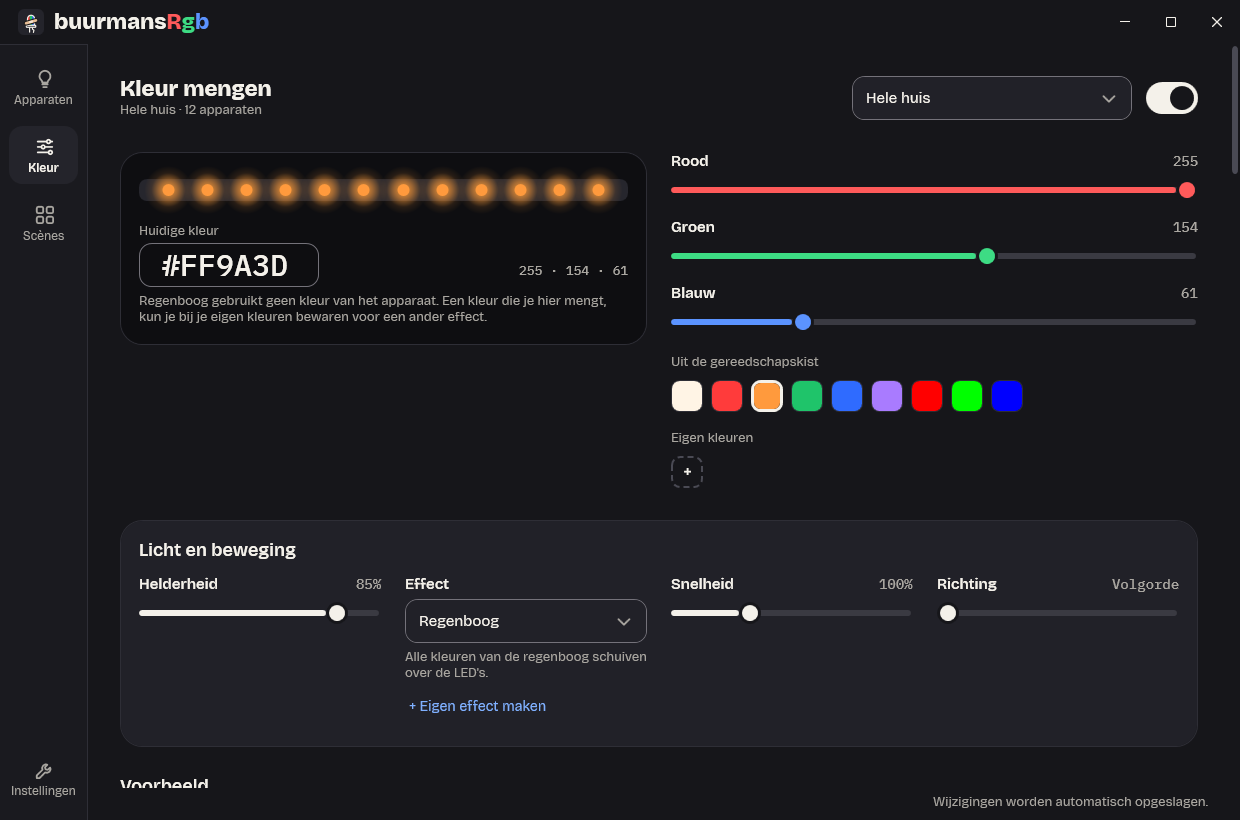
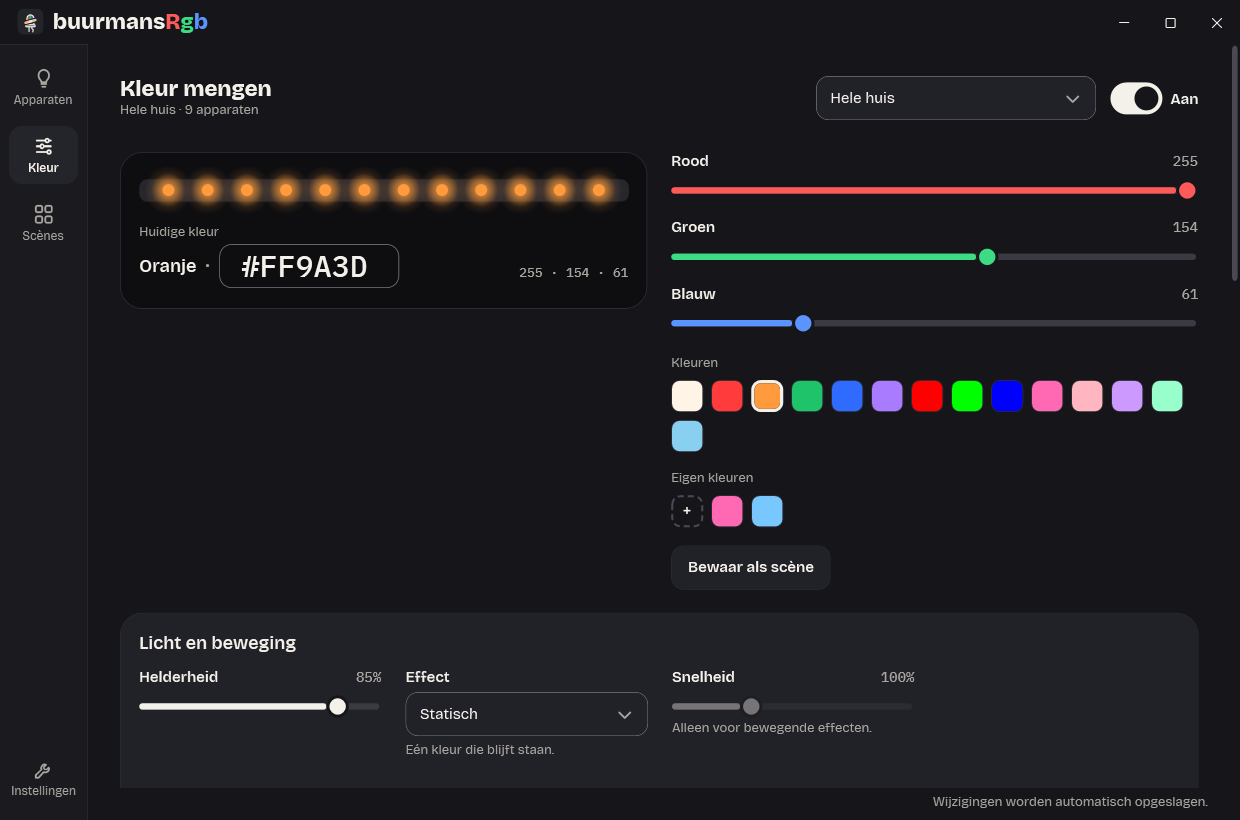
docs: renew the Kleur screenshot, add empty Scènes

diff --git a/docs/handleiding.md b/docs/handleiding.md
@@ -268,7 +268,7 @@ beweging, staat verderop bij [Toegankelijkheid](#toegankelijkheid).
 
 ### Kleur
 
-![De pagina Kleur: kleur mengen voor het hele huis](images/kleur.png)
+![De pagina Kleur: kleur mengen voor het hele huis, met "Bewaar als scène" onder de eigen kleuren](images/kleur.png)
 
 Bovenaan kies je een apparaat of "Hele huis" (een schermlezer noemt de keuze "Welk apparaat?"), met de
 schakelaar ernaast.
@@ -703,6 +703,8 @@ Alleen een pc zonder `profiles.json` krijgt ze, bij de eerste start van de engin
 scènes had (of ze allemaal verwijderde) vóór er startscènes waren, krijgt ze niet ongevraagd. De
 namen zijn Nederlands, zoals de rest van de app. Zijn er geen scènes, dan zegt de pagina wat een
 scène is en dat je er een maakt met "Nieuwe scène" eronder of met "Bewaar als scène" op Kleur.
+
+![De pagina Scènes zonder scènes: de uitleg die naar "Nieuwe scène" en "Bewaar als scène" op Kleur verwijst, met "+ Nieuwe scène" eronder](images/scenes-leeg.png)
 
 - **Een klik op een kaart** zet de scène aan: kleur, helderheid, aan/uit, effect, snelheid,
   richting, kleurenloop, kleuren van de effecten en per-LED-kleuren van alle apparaten worden die
